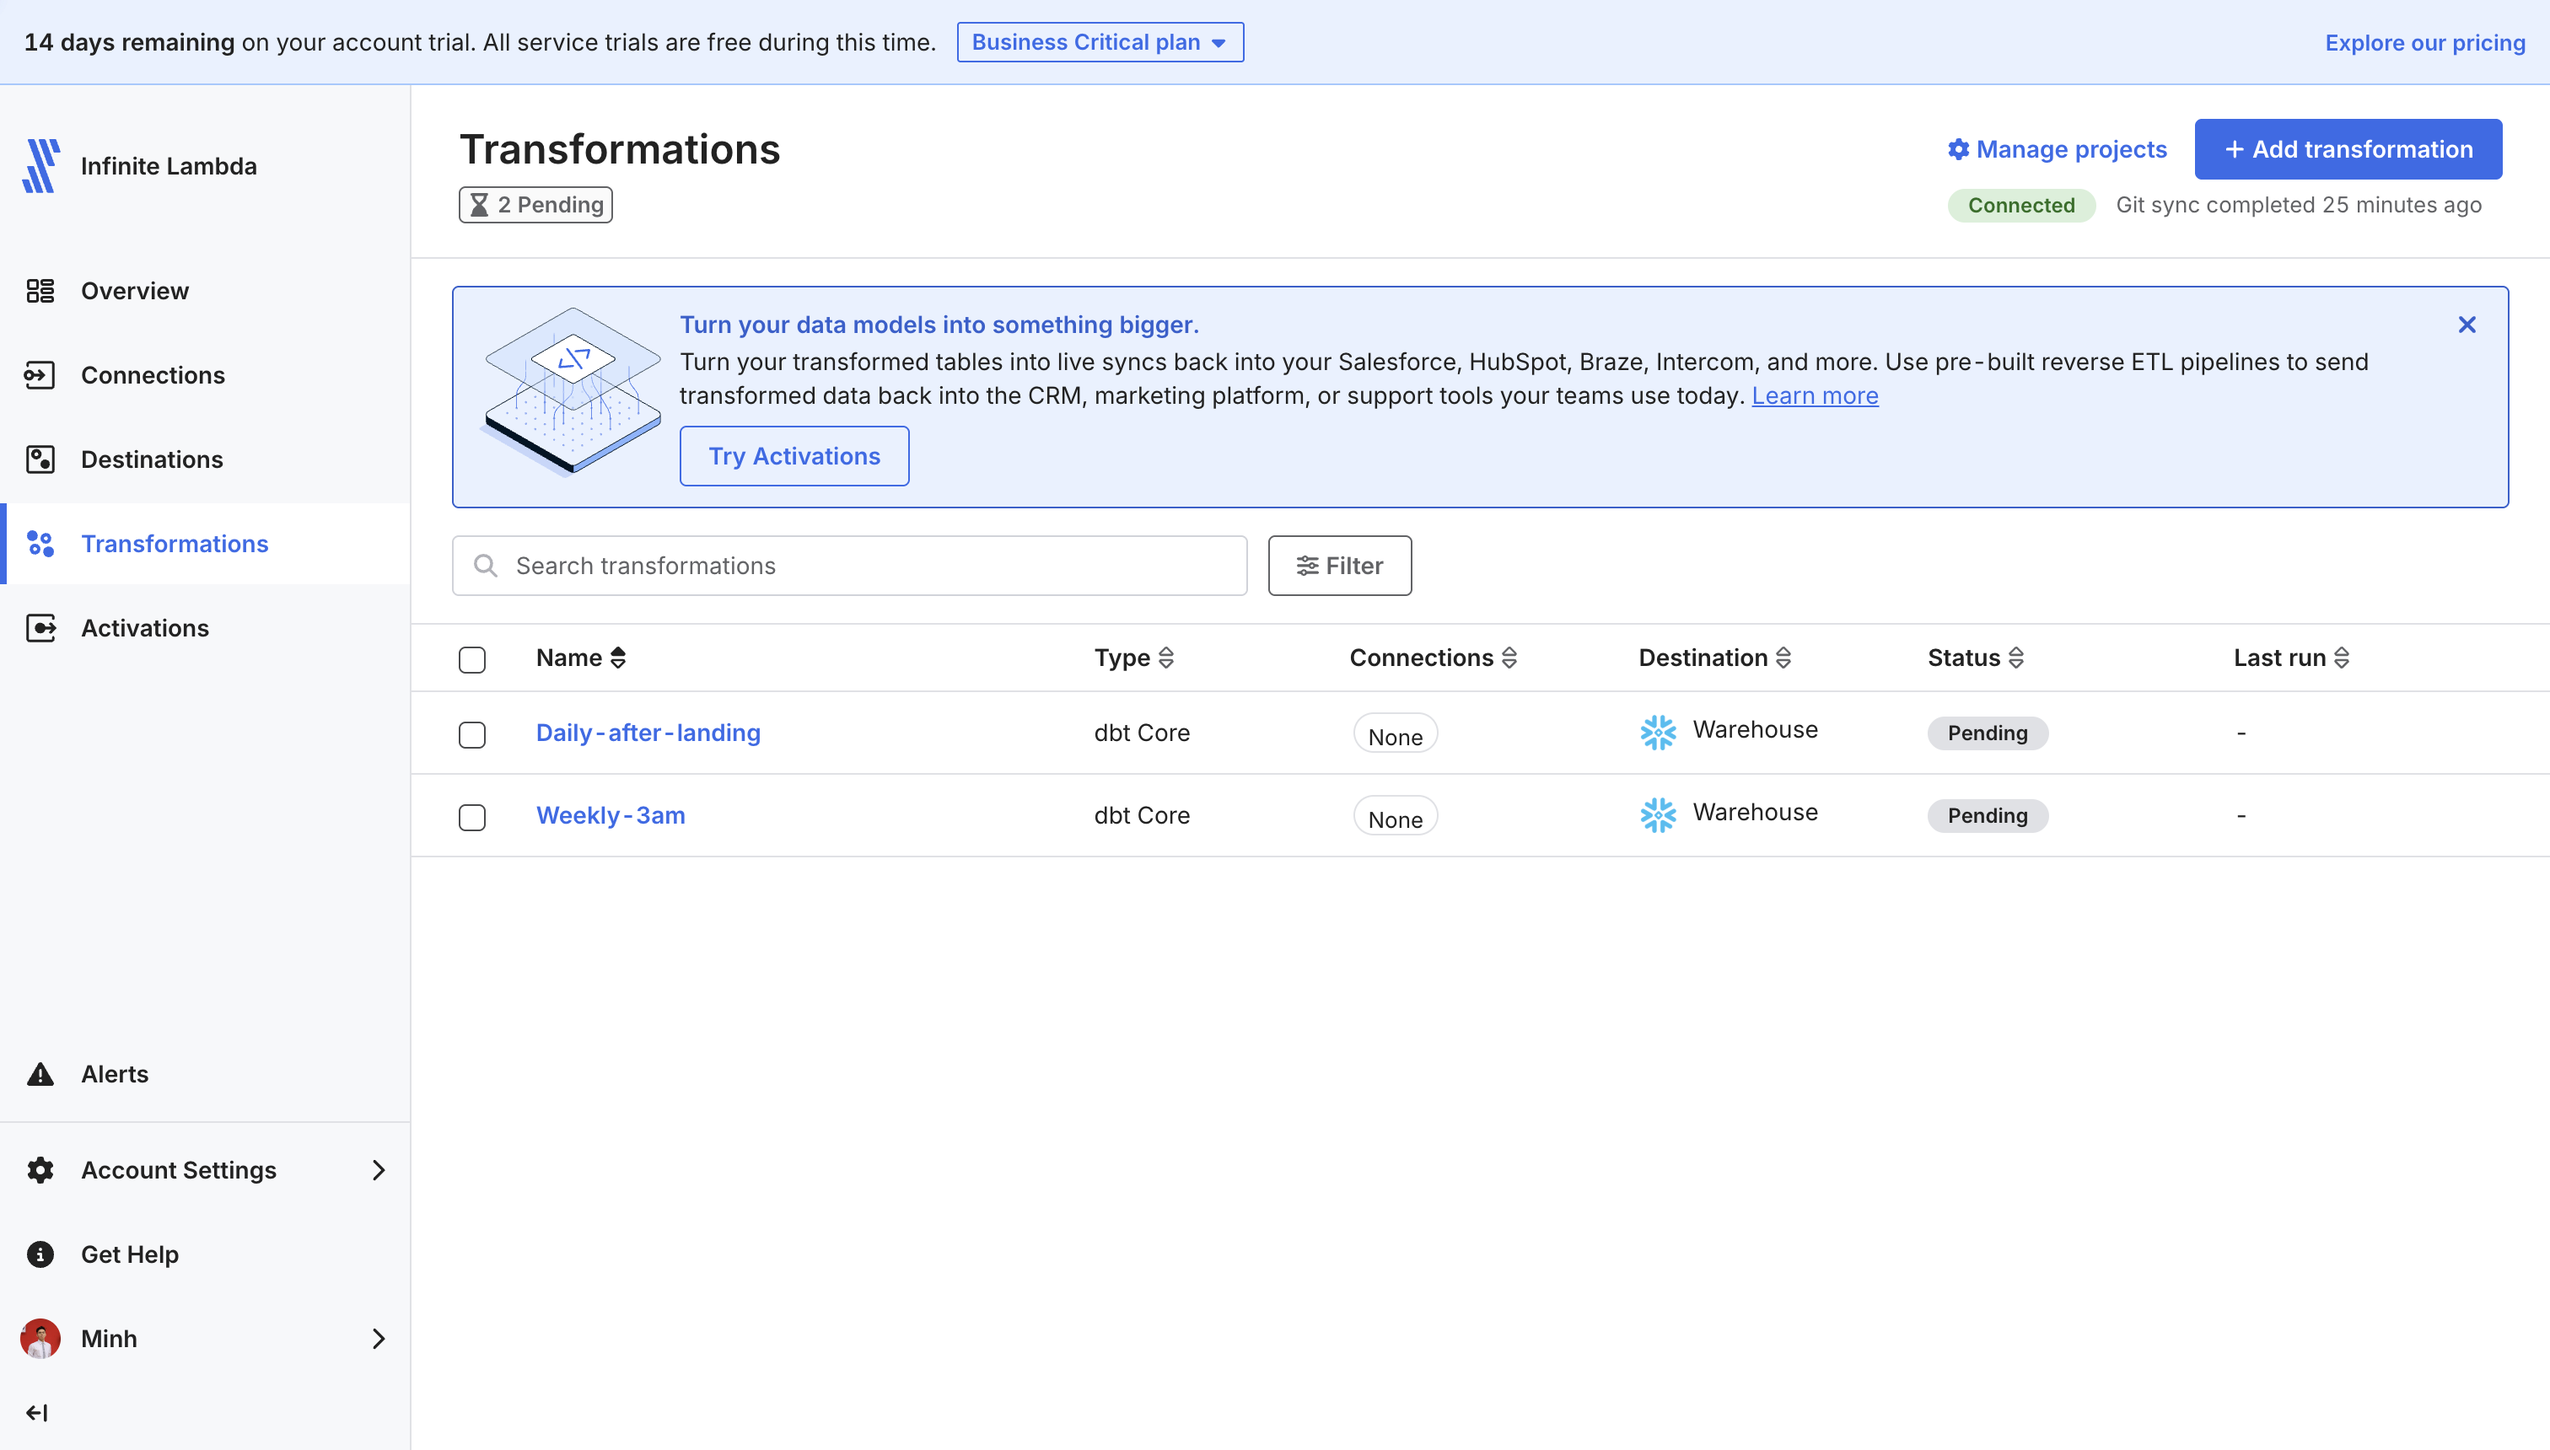
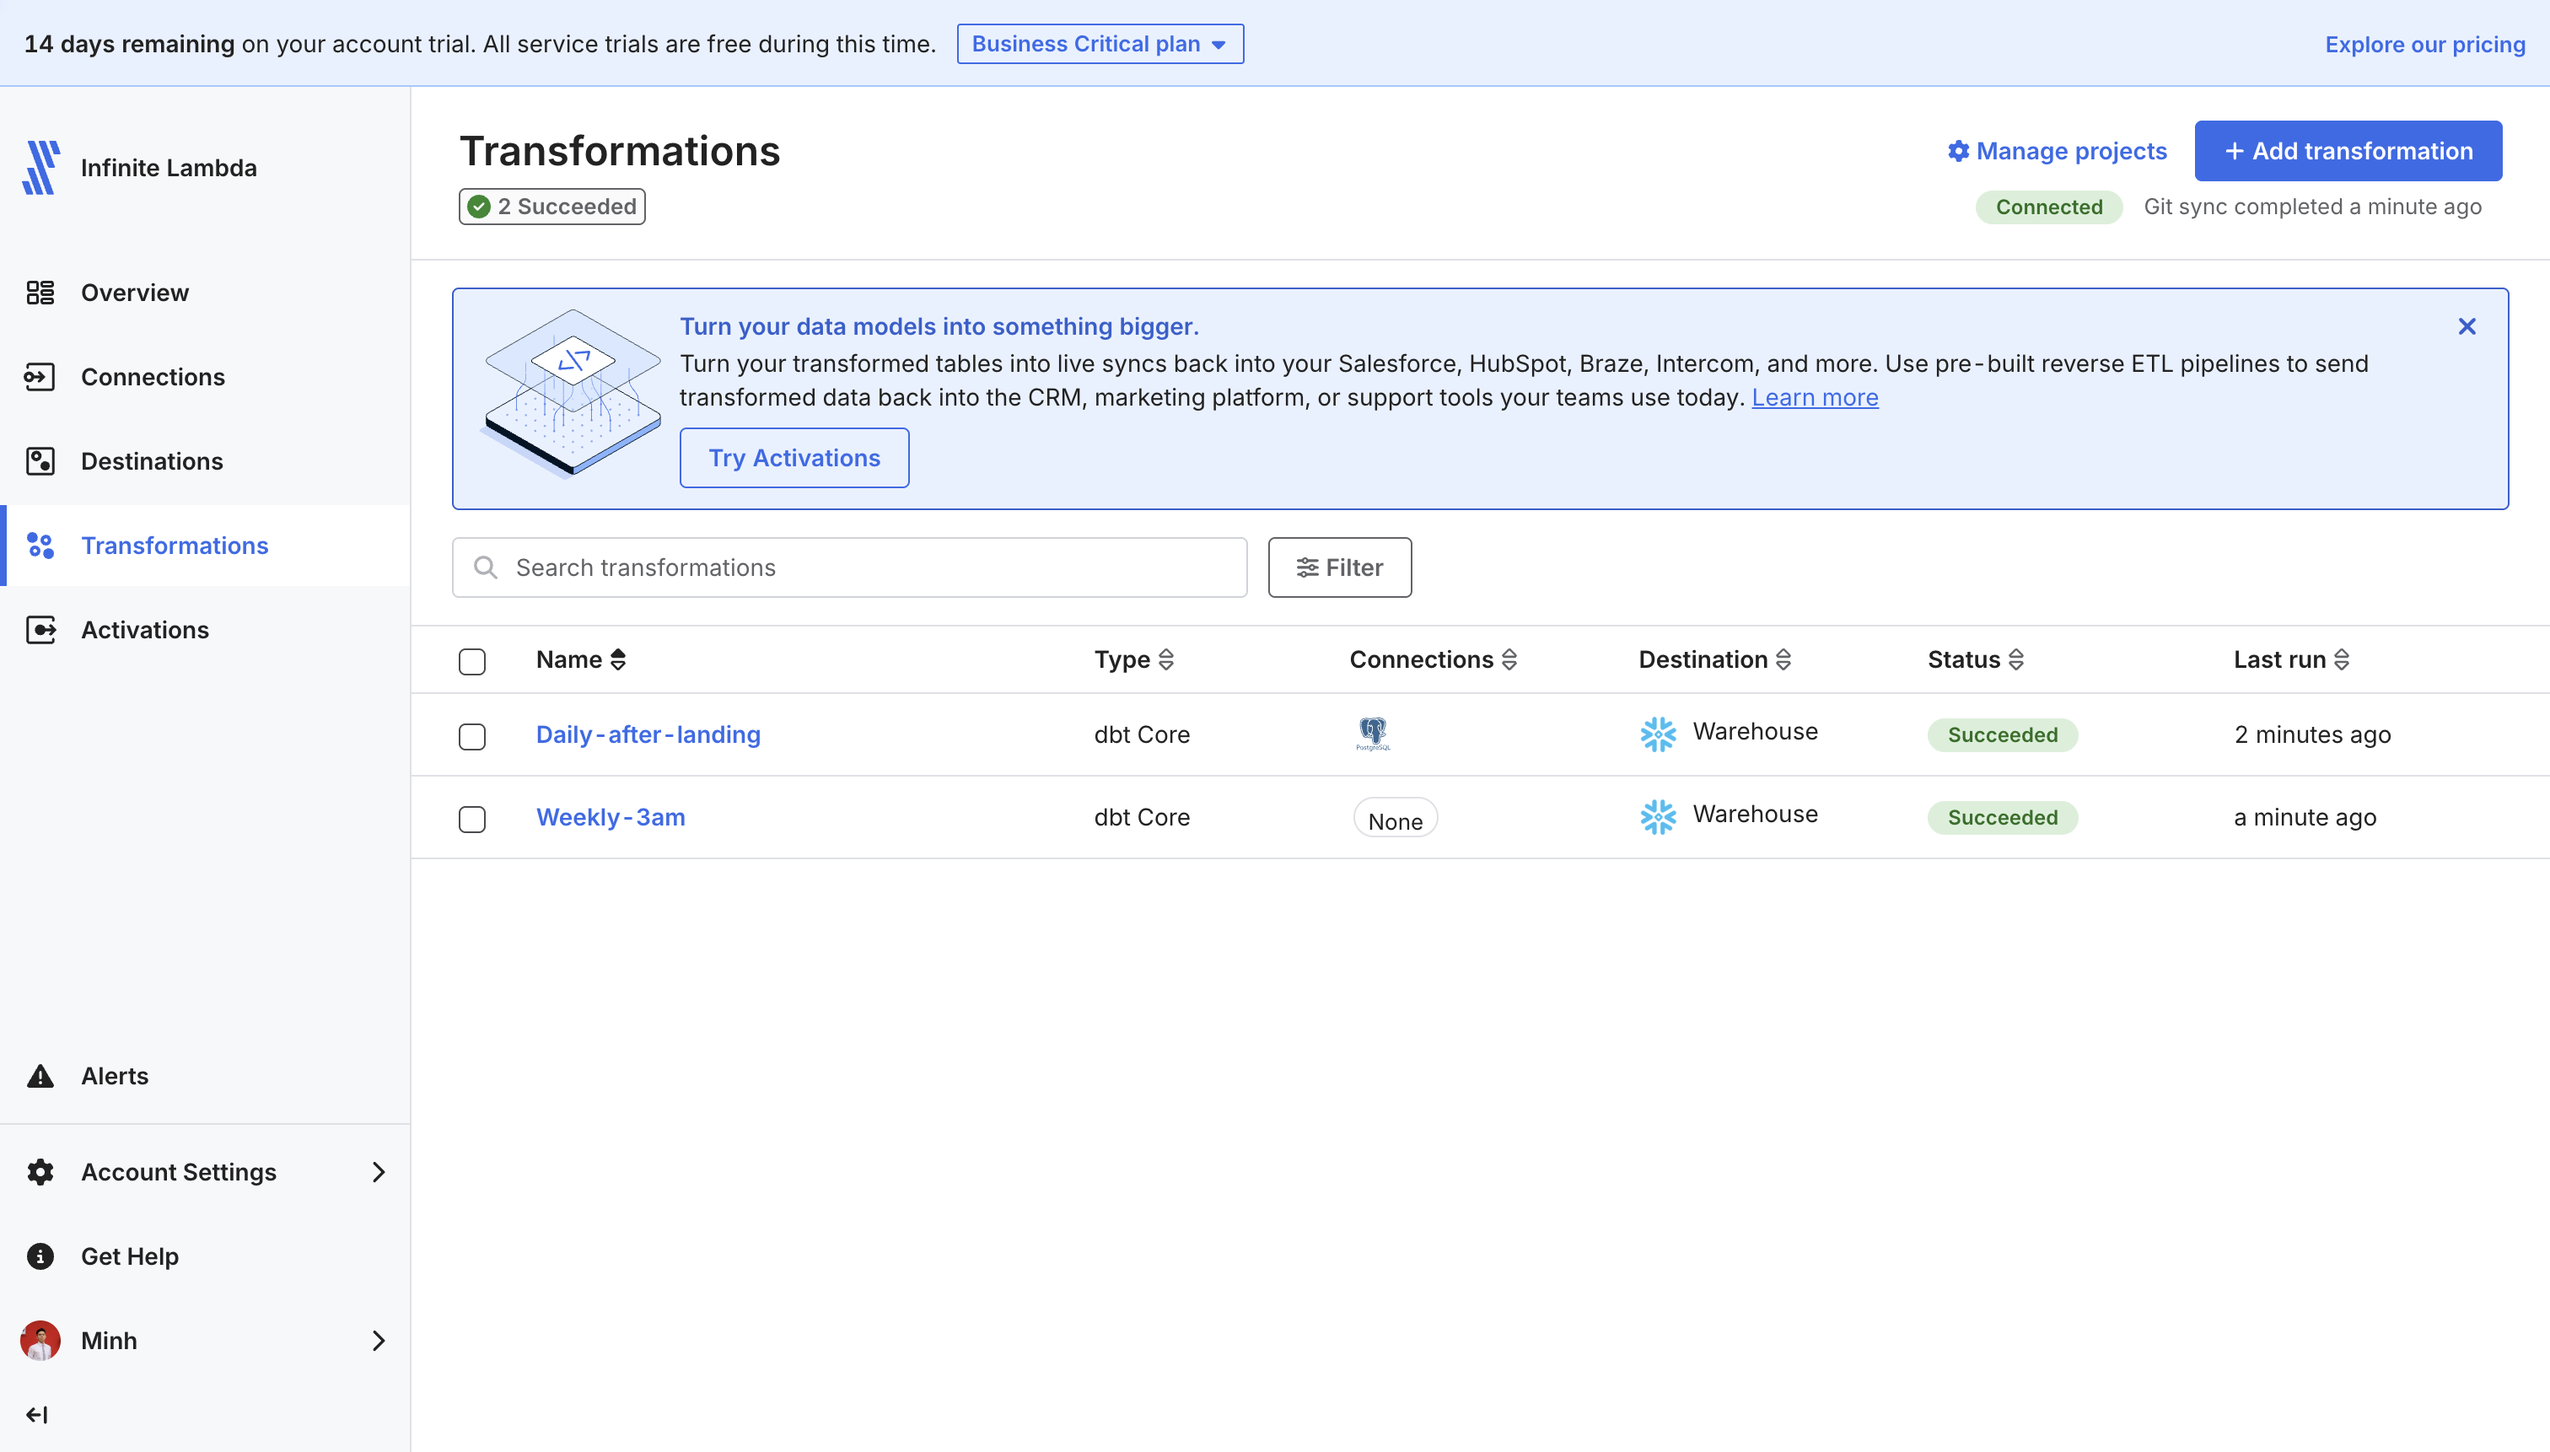
Document the successful Fivetran dbt job run
Add the Transformations list and run log screenshots to the section 5.5
checkpoint, and point the Part 2 checkpoint in the root README at the
former.

Use what the screenshots show to make the checkpoint verifiable. The
Connections column is the fastest way to tell whether the integrated
schedule resolved its connection id, and the run log confirms Fivetran
builds on target='prod' with its own generated profile.

Sharpen the troubleshooting note as well. "Object does not exist or not
authorized" was blamed only on missing FIVETRAN_ROLE grants, but the same
message appears when vars.fivetran_schema does not match the schema
Fivetran created, so tell the reader to check which object it names.

diff --git a/fivetran/README.md b/fivetran/README.md
@@ -260,13 +260,25 @@ The second job uses `type: cron` and needs no edit. Commit and push the change; 
 
 ### 5.5 Transformation checkpoint
 
-Run a job manually from the Transformations tab instead of waiting for the schedule. When it succeeds, Snowsight shows:
+Run a job manually from the Transformations tab instead of waiting for the schedule. Both jobs should end on **Succeeded**.
+
+![Transformations list: Daily-after-landing and Weekly-3am both Succeeded](../assets/fivetran/transformation/transformation_success.png)
+
+The **Connections** column is the quickest check that section 5.4 worked. `Daily-after-landing` shows `postgres_demo` because its integrated schedule resolved the connection ID. If it says **None**, the ID in `deployment.yml` is wrong and the job will never fire on its own. `Weekly-3am` showing **None** is correct: it runs on cron and is not tied to a connection.
+
+Open a job and read the **Run log** to see the dbt output Fivetran captured:
+
+![Run log for Daily-after-landing: five models built, completed successfully](../assets/fivetran/transformation/transformation_success_logs.png)
+
+Two details worth noticing. The header says `target='prod'` — that is Fivetran's generated profile, not the `dev` target from your local `profiles.yml`. And the run builds **five** models, not seven: `+tag:daily` pulls in `customerrevenue` plus the three staging models and `orders_fact` it depends on, while `employees_stg` and `emp_weekly_sales` belong to the weekly job.
+
+Confirm the result in Snowsight:
 
 ```sql
 SELECT COUNT(*) FROM FIVETRAN_DEMO.SERVE.CUSTOMERREVENUE;
 ```
 
-If a job fails on `Object does not exist or not authorized`, `FIVETRAN_ROLE` is missing the write grants on `TRANSFORM` / `SERVE`. Re-run [`snowflake/sql/dbt_setup.sql`](../snowflake/sql/dbt_setup.sql).
+If a job fails on `Object does not exist or not authorized`, check which object the message names. If it is `TRANSFORM` or `SERVE`, `FIVETRAN_ROLE` is missing the write grants: re-run [`snowflake/sql/dbt_setup.sql`](../snowflake/sql/dbt_setup.sql). If it is the landing schema, `vars.fivetran_schema` does not match the name Fivetran actually created (section 4) — that is a naming mismatch, not a permission problem.
 
 ## Screenshots in `assets/fivetran`
 
@@ -289,6 +301,8 @@ Transformation (`assets/fivetran/transformation`):
 | [`dbt_core_public_key.png`](../assets/fivetran/transformation/dbt_core_public_key.png) | Fivetran's generated public key and the Repository URL field. |
 | [`add_pub_key_to_github.png`](../assets/fivetran/transformation/add_pub_key_to_github.png) | GitHub **Settings → Deploy keys → Add new**, write access off. |
 | [`add_pub_key_success.png`](../assets/fivetran/transformation/add_pub_key_success.png) | The `fivetran` deploy key registered, read-only. |
+| [`transformation_success.png`](../assets/fivetran/transformation/transformation_success.png) | Both jobs **Succeeded**. `Daily-after-landing` shows its `postgres_demo` connection; the cron job shows none. |
+| [`transformation_success_logs.png`](../assets/fivetran/transformation/transformation_success_logs.png) | Run log for `Daily-after-landing`: five models on `target='prod'`, `PASS=5`. |
 
 Neon Connect (host, pooling off) lives in [`assets/source/connection.png`](../assets/source/connection.png). Snowflake object setup lives in [`assets/snowflake`](../assets/snowflake).
 

diff --git a/README.md b/README.md
@@ -221,7 +221,11 @@ Commit and push. The jobs show up in the Transformations tab after the next proj
 
 ## 2.5 Run a job — Part 2 checkpoint
 
-Trigger `Daily-after-landing` manually from the Transformations tab rather than waiting for the next Neon sync. When it succeeds, check Snowflake:
+Trigger `Daily-after-landing` manually from the Transformations tab rather than waiting for the next Neon sync.
+
+![Fivetran Transformations: both dbt jobs Succeeded](assets/fivetran/transformation/transformation_success.png)
+
+The job's **Run log** holds the dbt output. Expect five models on `target='prod'` — `+tag:daily` builds `customerrevenue` and its upstream models, leaving the other two to the weekly job. Then check Snowflake:
 
 ```sql
 SELECT COUNT(*) FROM FIVETRAN_DEMO.SERVE.CUSTOMERREVENUE;
